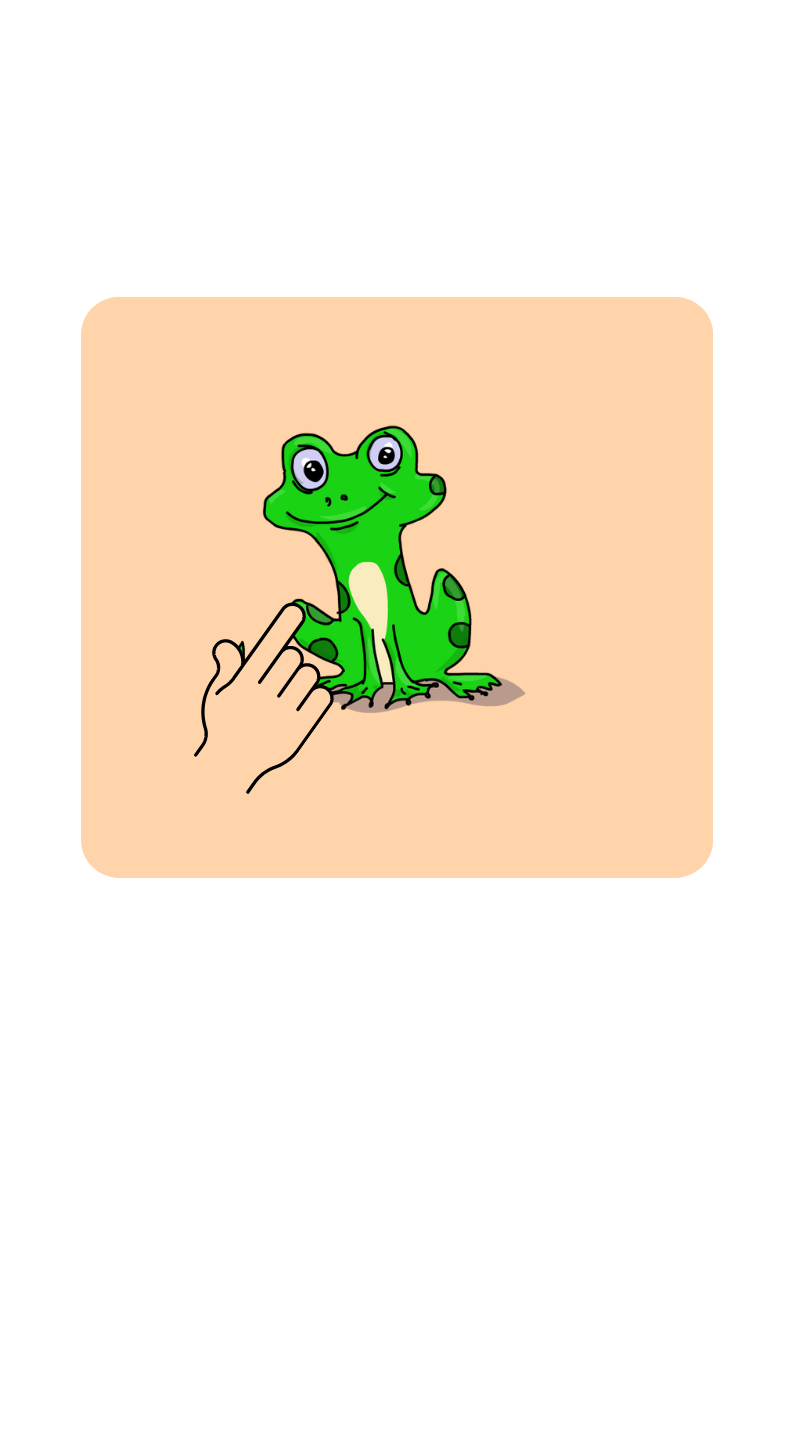
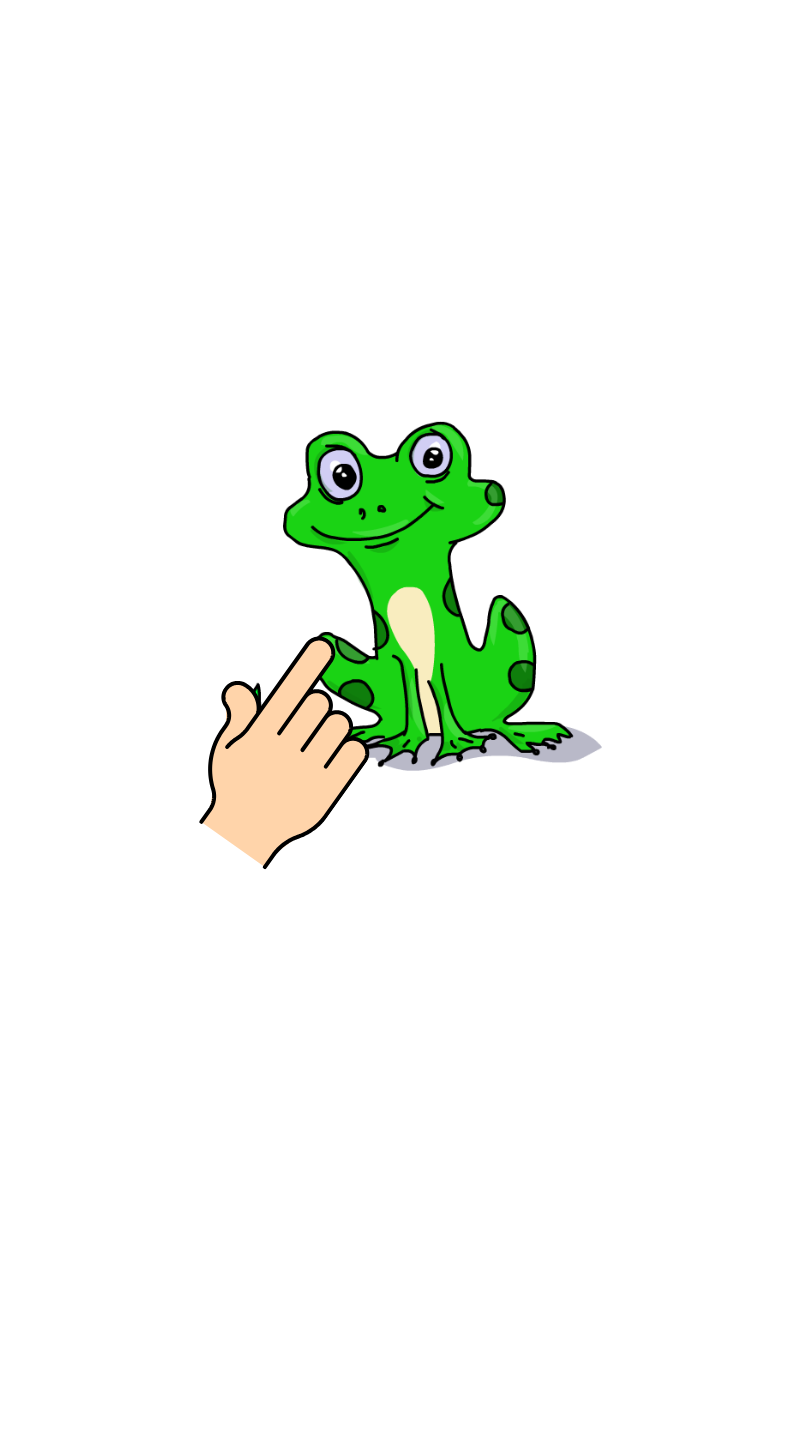
Unit3 updated, image size updated

Changed region(s): [[0.0926, 0.1875, 0.8951, 0.625], [0.3086, 0.5312, 0.3395, 0.5625]]

diff --git a/Trial.css b/Trial.css
@@ -22,6 +22,10 @@
   --video-vh:100svh;
 
   --header-h:56px;
+
+  --img-cap: 40svh; 
+  --img-scale: 1;     /* default: no scale */
+  --img-nudge: 0svh;  /* default: no vertical shift */
 }
 
 /* Base should be OUTSIDE :root */
@@ -113,20 +117,12 @@ html,body{
     line-height: 1.2;        /* tighten line spacing */
   }
   
-  /* Image area */
-  /* .image-wrap{
-    margin:0;
-    width:min(520px, 86%);
-    display:flex; align-items:center; justify-content:center;
-  } */
-
-  /* replace your current .image-wrap block with this */
   .image-wrap{
     width: min(520px, 86%);
     margin: 0 auto;
 
-    /* lock in a stable area so layout doesn't shift */
-    height: clamp(220px, 40svh, 420px);
+    /* lock in a stable area so layout doesn't shift */ 
+    height: clamp(220px, var(--img-cap), 460px);
     flex: 0 0 auto;             /* don't let flex stretch/shrink this box */
 
     display: flex;
@@ -135,14 +131,6 @@ html,body{
     overflow: hidden;           /* prevent any overflow jitter */
   }
 
-  /* #wordImage{
-    width:100%; height:auto; max-height:var(--image-max-h);
-    object-fit:contain;
-    filter: drop-shadow(0 8px 12px rgba(0,0,0,.18));
-    border-radius:16px; 
-    margin-top: clamp(34px, 11svh, 80px);
-  }
-   */
 
    /* replace your current #wordImage block with this */
   #wordImage{
@@ -152,6 +140,9 @@ html,body{
     display: block;             /* remove baseline gap that can nudge layout on iOS */
     filter: drop-shadow(0 8px 12px rgba(0,0,0,.18));
     border-radius: 16px;
+    transform: translateY(var(--img-nudge)) scale(var(--img-scale));
+    transform-origin: center;                /* stays centred */
+    will-change: transform;
   }
 
 
@@ -467,5 +458,34 @@ body.video-active { overflow: hidden; }
   background: linear-gradient(#2cd18c, #19a66a); /* green instead of salmon */
 }
 
+#wordDisplay .image-wrap img{
+  height: 100%;
+  max-height: var(--img-cap);
+  width: 100%;
+  object-fit: contain;
+}
+
+/* 👇 Later in the file (overrides section is ideal) */
+/* body.unit-unit3 { --img-cap: 56svh; } */
 
 
+
+/* Make only Unit 3 look bigger, without reflow */
+body.unit-unit3{
+  --img-scale: 1.82;    /* tweak 1.10–1.30 to taste */
+  --img-nudge: 0.9svh; /* lift it a bit so it doesn’t encroach the nav */
+}
+
+/* If the scaled image gets clipped, let it overflow just for Unit 3 */
+/* body.unit-unit3 .image-wrap{ overflow: visible; } */
+
+/* prevent any vertical scroll on the slide */
+body.unit-unit3 .word-display{
+  overflow: hidden;                /* NEW: clip anything that spills */
+}
+
+/* clip the scaled image inside its box */
+body.unit-unit3 .image-wrap{
+  overflow: hidden;                /* NEW: clip filter/scale bleed */
+  contain: paint;                  /* confine painting to this box */
+}

diff --git a/Trial.js b/Trial.js
@@ -334,6 +334,8 @@ els.startoverIntro?.addEventListener("click", startOver);
 /* Init */
 (async function () {
   const unit = await loadUnit(getUnitIdFromUrl());
+  document.body.classList.add(`unit-${unit.id}`); // e.g., unit-unit3
+
 
   // NEW: set the unit title from JSON
   const titleEl = document.getElementById("unitTitle");
